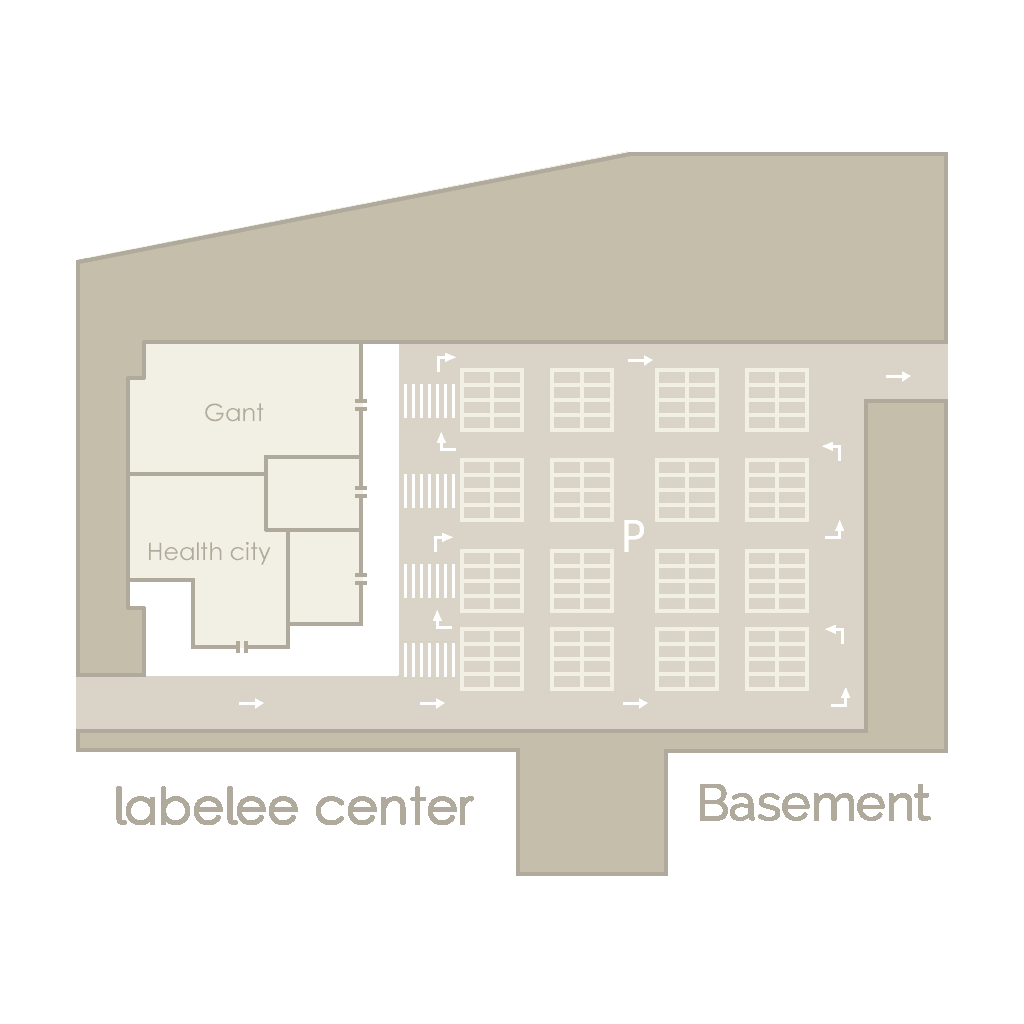
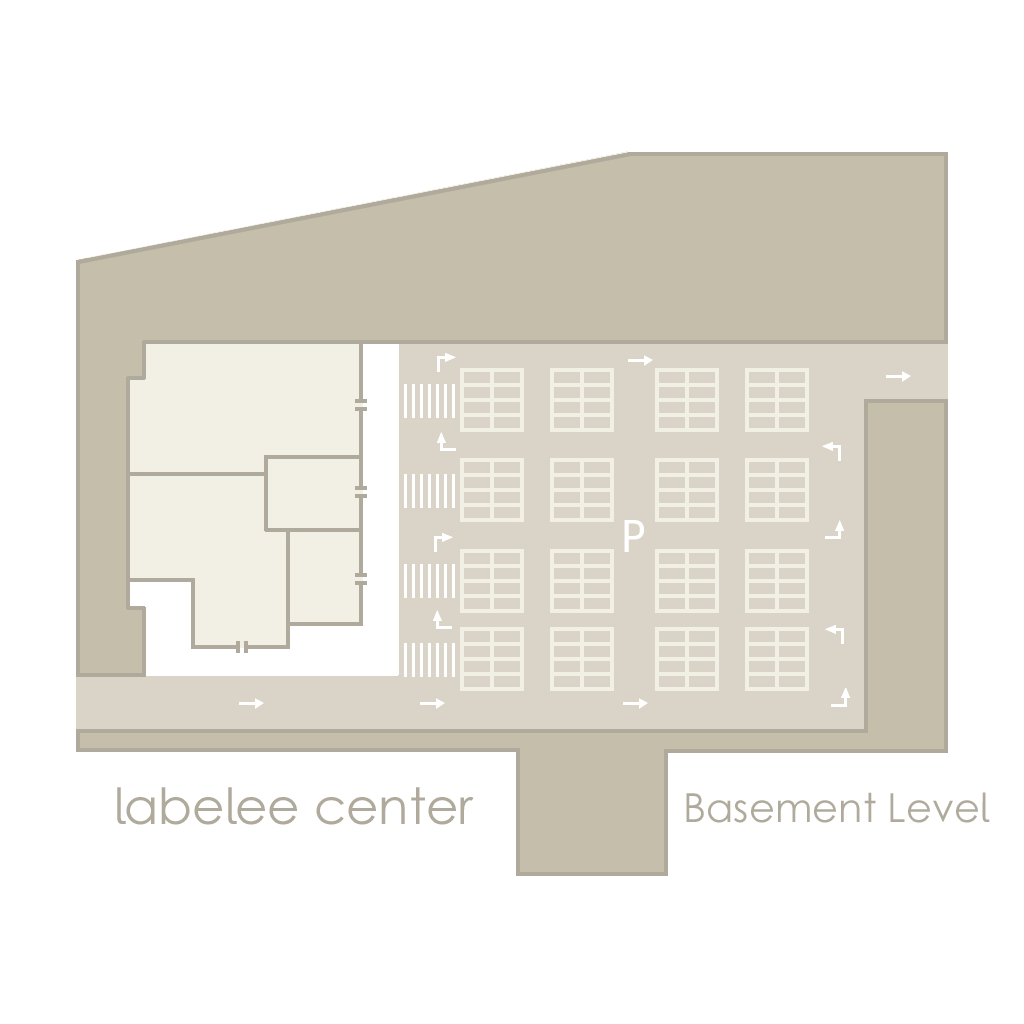
prueba capa de textos_mapas limpios

diff --git a/static-media/js/map/index/map.js b/static-media/js/map/index/map.js
@@ -50,9 +50,9 @@ var txtIcon= new L.icon({
     iconUrl: '/media/texticon.png',
     iconRetinaUrl: '/media/texticon.png',
     iconSize: [1, 1],
-    iconAnchor: [1,1],
+    iconAnchor: [0,0],
     //popupAnchor: [0,0],
-    labelAnchor: [2, 0]
+    labelAnchor: [-46, 6]
 });
 
 
@@ -383,8 +383,8 @@ function loadPOIs() {
                 sY = floors[fl].scaleY,
                 loc = [(floors[fl].pois[j].row) * sY + (sY),
                     floors[fl].pois[j].col * sX + (sX)],
-                center =  [(floors[fl].pois[j].center_y) * sY + (sY),
-                    floors[fl].pois[j].center_x * sX + (sX)],
+                center =  [(floors[fl].pois[j].center_x) * sY + (sY),
+                    floors[fl].pois[j].center_y * sX + (sX)],
                 labelid = floors[fl].pois[j].label.id,
                 category = floors[fl].pois[j].label.category.name,
                 category_es = floors[fl].pois[j].label.category.name_es;

diff --git a/static-media/css/map/index/multix.css b/static-media/css/map/index/multix.css
@@ -1279,11 +1279,14 @@ img.cupImg{
 */
     border:none;
     background: none;
-    color: rgb(90, 88, 81);
+    color: #8C8C87;
     display: block;
-    font: 1rem "Raleway", "Noto-Sans", "Helvetica Neue", Arial, Helvetica, sans-serif;
+    font: 0.9em "Raleway", "Noto-Sans", "Helvetica Neue", Arial, Helvetica, sans-serif;
+
     font-weight: bold;
+/*
     padding: 1px 6px;
+*/
     position: absolute;
     -webkit-user-select: none;
 }
